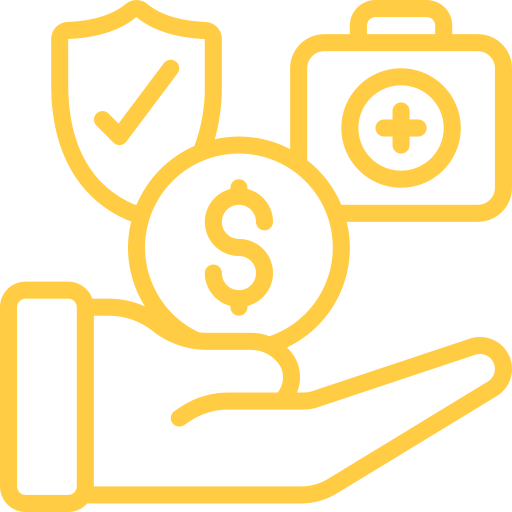
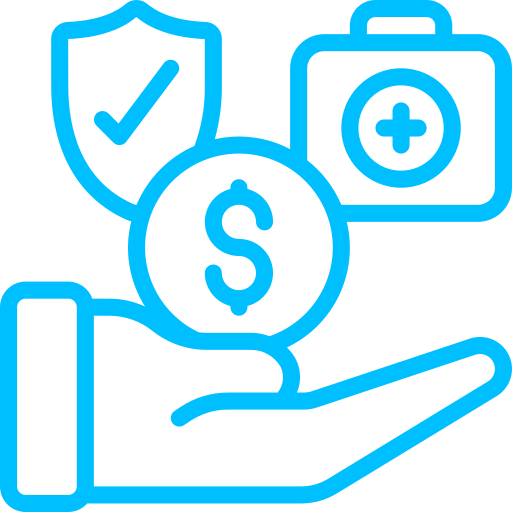
mudança na paleta de cores

Changed region(s): [[0.0, 0.0, 1.0, 1.0]]

diff --git a/index.html b/index.html
@@ -6,6 +6,7 @@
     <title>Cristalina</title>
     <link rel="stylesheet" href="./src/css/style.css">
     <script src="https://kit.fontawesome.com/73170762c9.js" crossorigin="anonymous"></script>
+    <link rel="icon" href="./src/imgs/droplet-solid.svg" type="image/x-icon">
 </head>
 <body>
     <header class="cabecalho fade-in">
@@ -37,7 +38,7 @@
         <p>A poluição dos oceanos é um dos maiores desafios ambientais que enfrentamos atualmente. Resíduos plásticos, metais e outros materiais poluentes estão contaminando nossas águas, ameaçando a vida marinha e impactando negativamente os ecossistemas aquáticos. A degradação dos oceanos não só afeta a biodiversidade, mas também a saúde humana e a economia global, pois muitos dependem do oceano para alimentação e sustento.</p>
         </div>
         <div>
-            <img class="imagens" src="./src/imgs/poluicao-da-agua.png" alt="Imagem de água poluída" width="400">
+            <img class="imagens" src="./src/imgs/poluicao-da-agua (2).png" alt="Imagem de água poluída" width="400">
         </div>
     </section>
 

diff --git a/src/css/style.css b/src/css/style.css
@@ -1,7 +1,7 @@
 @import url('https://fonts.googleapis.com/css2?family=Poppins:ital,wght@0,100;0,200;0,300;0,400;0,500;0,600;0,700;0,800;0,900;1,100;1,200;1,300;1,400;1,500;1,600;1,700;1,800;1,900&display=swap');
 
 :root {
-    --cor-amarela: #FFCC43;
+    --cor-amarela: #00BFFF;
     --cor-cinza: #F9FAFB;
     --cor-preta: #000000;
     --cor-branca: #FFFFFF;
